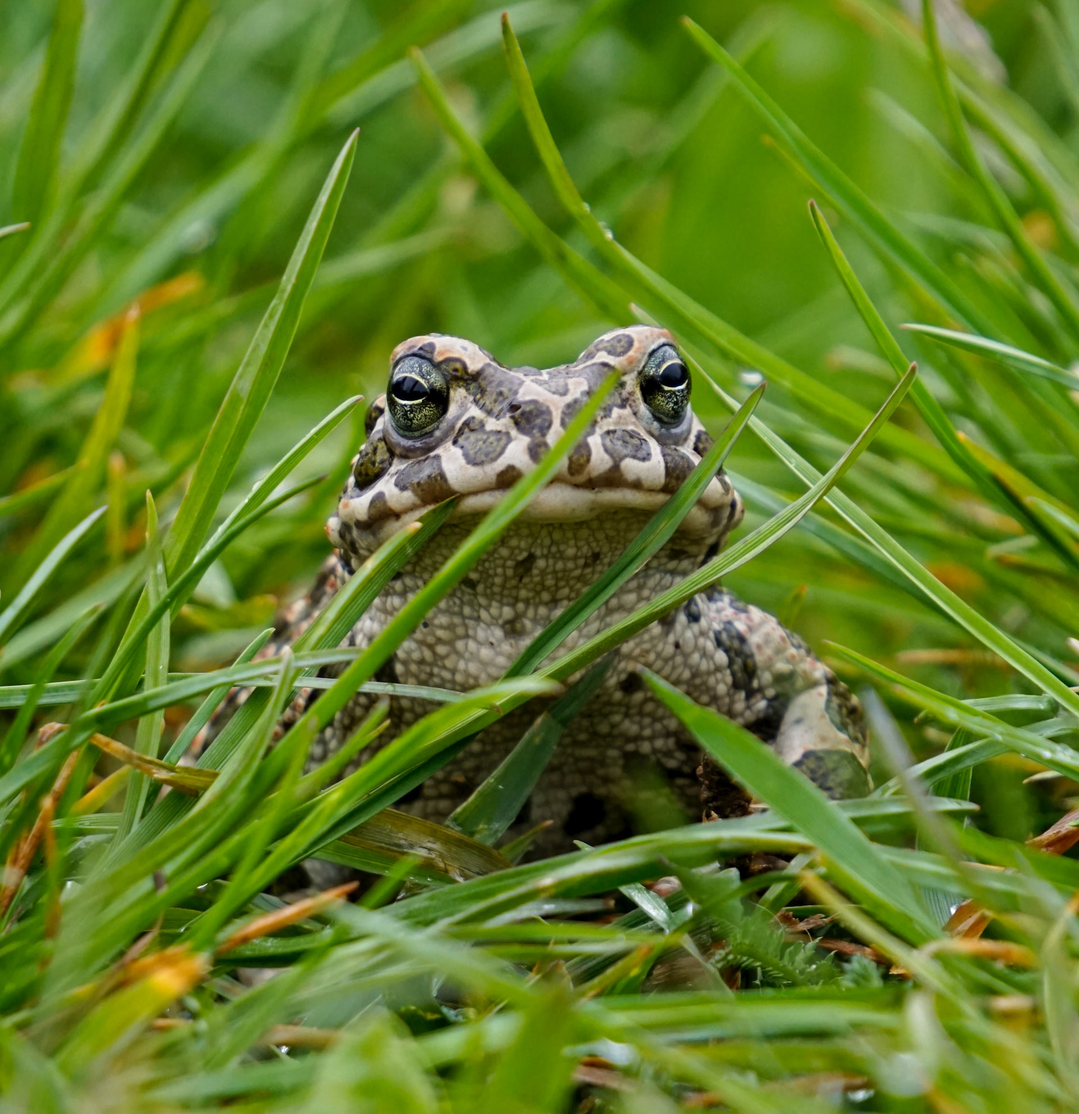
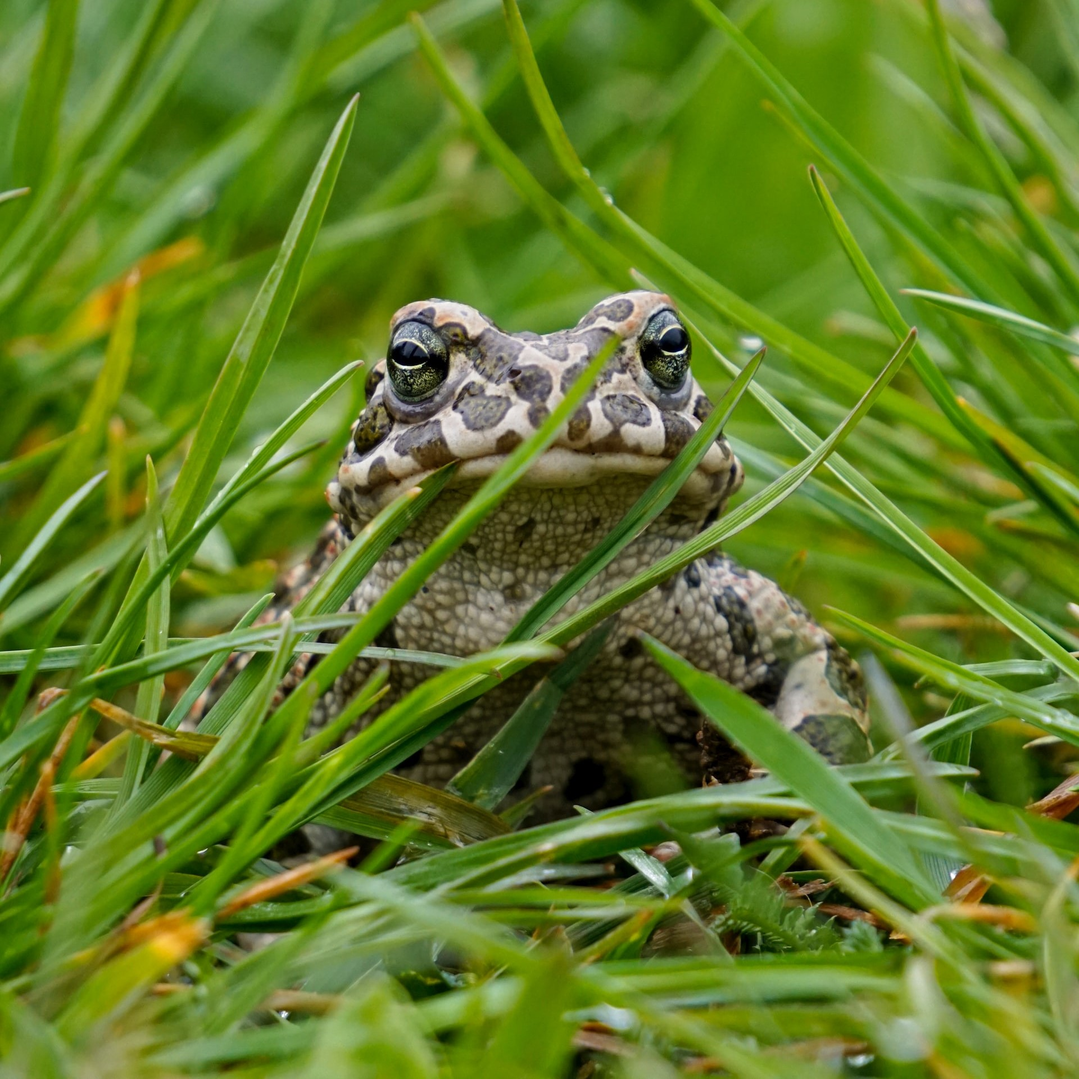
i forgor, fixed image heights, added socials

diff --git a/Stylesheets/navStyle.css b/Stylesheets/navStyle.css
@@ -1,3 +1,15 @@
+nav h1 {
+	margin: 0 auto;
+	padding: 0;
+	color: white;
+	position: absolute;
+	top: 185px;
+	left: 850px;
+	z-index: 12;
+	font-size: 55px;
+}
+
+
 nav #logo img{
 	height: 300px;
 	position: absolute;
@@ -9,7 +21,7 @@ nav #logo img{
 nav ul {
 	position: absolute;
 	top: 70px;
-	right: 350px;
+	right: 400px;
 	padding: 0;
 	display: flex;
     z-index: 10;
@@ -24,9 +36,9 @@ nav ul li a {
 	text-decoration: none;
 	color: white;
 	display: block;
-	font-size: 16px;
+	font-size: 19px;
 	z-index: 10;
-	width: 70px;
+	width: 100px;
 }
 
 #cartBox {
@@ -37,22 +49,38 @@ nav ul li a {
 	border-bottom: 5px solid #619B60;
     border-Top: 5px solid #619B60;
     border-right: 30px solid whitesmoke;
+    position: relative;
+    right: 30px;
+
 }
 
 .cartCircle {
 	border-radius: 10px;
 	background-color: whitesmoke;
 	z-index: 10;
-	border: red solid 2px;
-	height: 5px;
-	width: 5px;
+	border: whitesmoke 1px solid;
+	height: 6px;
+	width: 6px;
 }
 
-.cartLeftWheel
+.leftWheel {
+	position: absolute;
+	top: 24px;
+	left: 25px;
 
-.cartRightWheel
+}
 
-.cartHandle
+.rightWheel {
+	position: absolute;
+	top: 20px;
+	left: 0px;
+}
+
+.circleHandle {
+	position: absolute;
+	top: -7px;
+	left: 35px;
+}
 
 .navBoxes {
 	margin: 150px;
@@ -134,15 +162,34 @@ footer {
 	width: 100%;
 }
 
+#socials {
+	position: absolute;
+	z-index: 14;
+	left: 800px;
+	top: 90px;
+}
+
 @media (max-width:1054px ) {
 	nav ul {
 	position: absolute;
 	right: 100px;
-	}
+}
 
 	nav #logo img{
 	height: 200px;
 	top: 100px;
 	left: 100px;
-	}
+}
+
+	nav h1 {
+	top: 185px;
+	left: 400px;
+	width: 400px;
+	font-size: 45px;
+}
+
+#socials {
+	left: 350px;
+	top: 90px;
+}
 }

diff --git a/index.html b/index.html
@@ -38,6 +38,8 @@
 				 <div id="mediumBox"></div>
 				 <div id="lightBox"></div>
 			 </div>
+
+			 <h1>What's New!</h1>
 		</nav>
 	</section>
 
@@ -140,10 +142,18 @@
 	<!-- Section three - footer -->
 <section>
 	<footer>
-		<div id="navBoxes2">
+			<div id="navBoxes2">
 			     <div id="darkBox2"></div>
 				<div id="mediumBox2"></div>
 				<div id="lightBox2"></div>
+			</div>
+
+			<div id="socials">
+				<img src="./images./facebook.png" alt="facebook">
+				<img src="./images./insta.png" alt="instagram">
+				<img src="./images./twitter.png" alt="twitter">
+				<img src="./images./youtube.png" alt="youtube">
+
 			</div>
 	</footer>
 </section>

diff --git a/Stylesheets/style.css b/Stylesheets/style.css
@@ -48,6 +48,10 @@ button {
 	object-fit: cover;
 }
 
+..imageContain {
+	height: 300px;
+}
+
 .textContain {
 	display: flex;
 	justify-content: space-between;

diff --git a/README.md b/README.md
@@ -2,4 +2,4 @@
 
 <!-- 
 12/7/2022
-I started threeish days ago? Ive been working on the navigation bar mostly so yay! I just fixed the footer which is so cool. Now I just have to figure out how to make the cart and remove the purple underline on my frog names, descriptions, prices, and "add to cart" button :'> ' -->
+I started threeish days ago? Ive been working on the navigation bar mostly so yay! I just fixed the footer which is so cool. Now I just have to figure out how to make the cart and remove the purple underline on my frog names, descriptions, prices, and "add to cart" button :'>  -->
